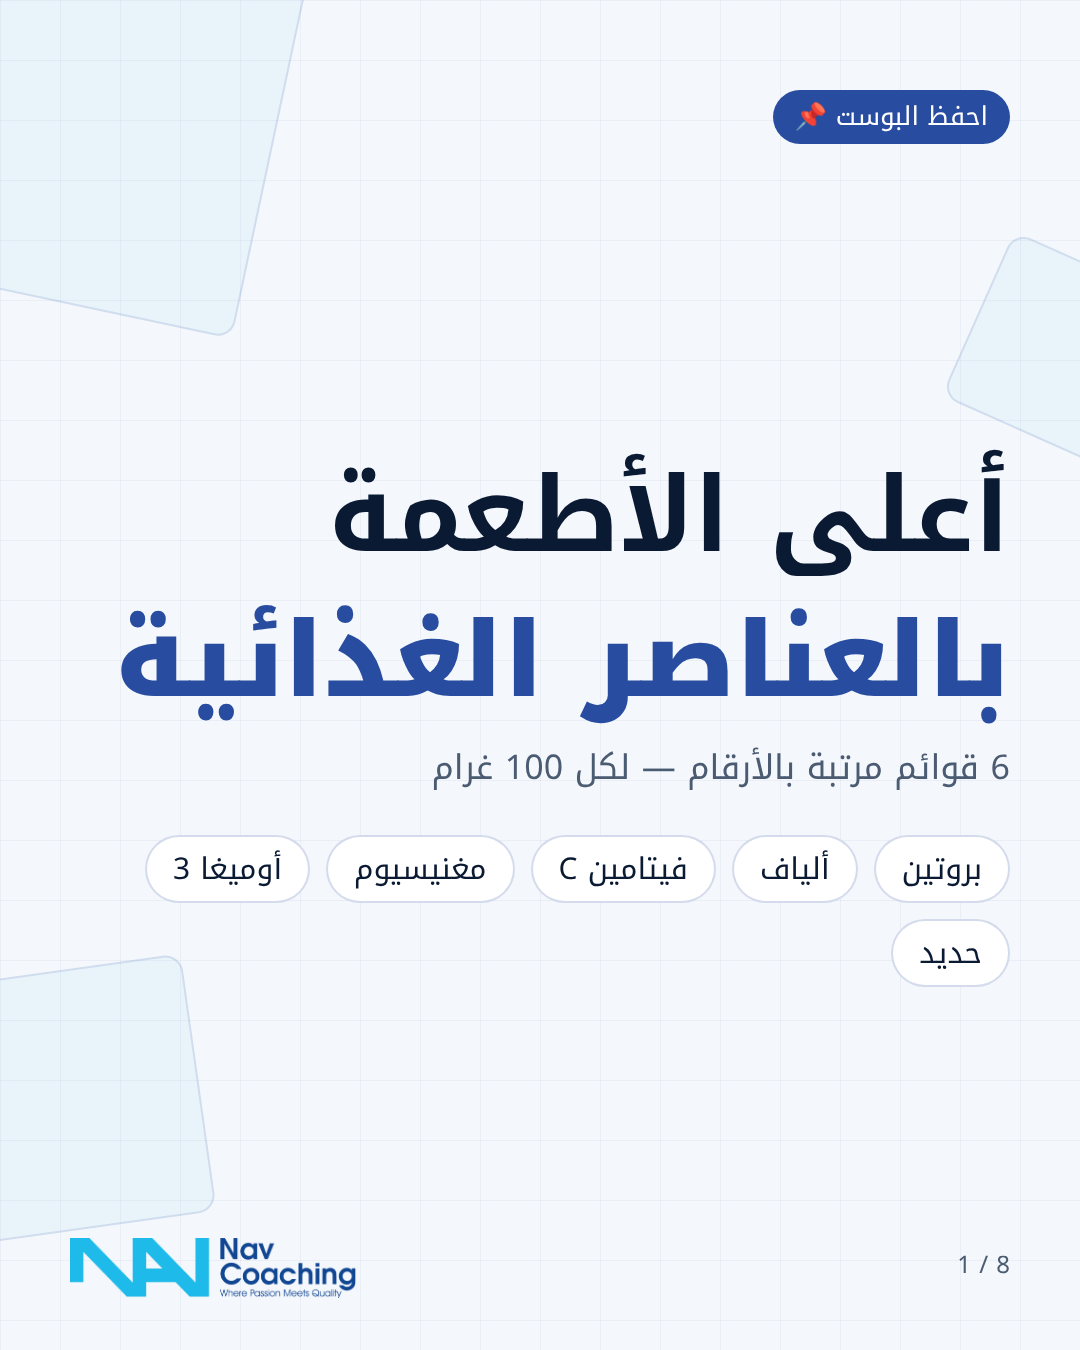
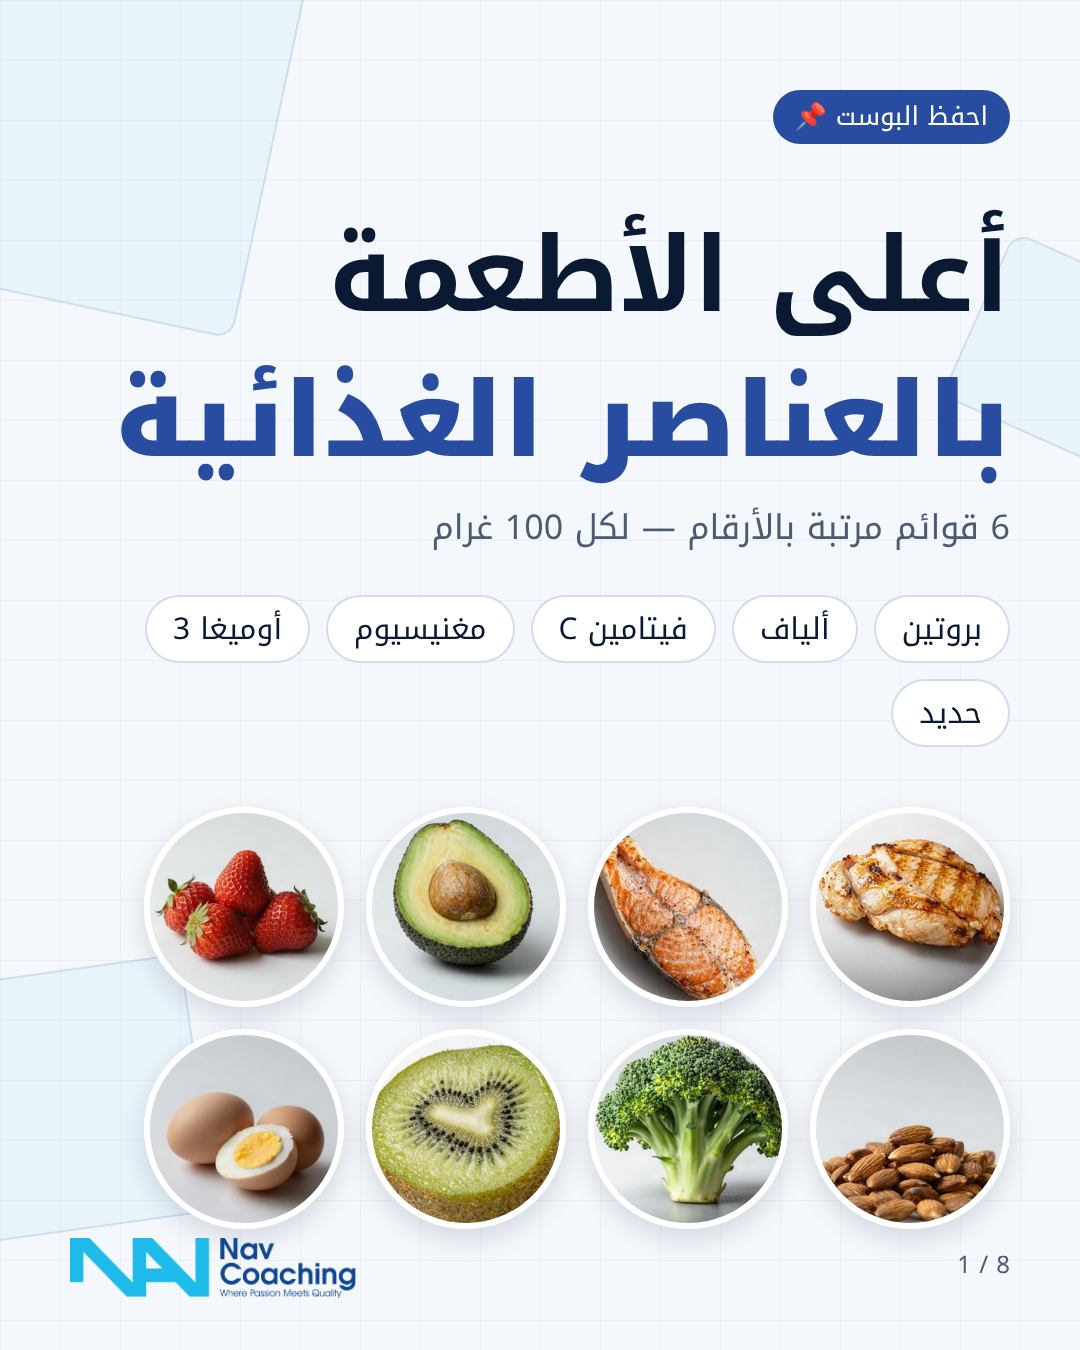
foods carousel: add generated food photos per row and cover collage
Claude-Session: https://claude.ai/code/session_014K8VAaJoHdbEmLTmDkRNee

Changed region(s): [[0.0917, 0.1556, 0.9472, 0.9333], [0.7028, 0.1556, 0.9472, 0.2489]]

diff --git a/instagram/foods/slides.html b/instagram/foods/slides.html
@@ -10,17 +10,20 @@ section.s{width:1080px;height:1350px;position:relative;overflow:hidden;backgroun
 h1{font-size:64px;line-height:1.45;margin:22px 0 6px;word-spacing:4px}
 h1 b{color:#284da0}
 .sub{font-size:26px;color:#4b5b72;line-height:1.6;margin-bottom:34px}
-.row{display:flex;align-items:center;gap:20px;height:96px}
-.lb{width:250px;font-size:32px;font-weight:600;line-height:1.5}
+.row{display:flex;align-items:center;gap:18px;height:100px}
+.ph{width:88px;height:88px;border-radius:50%;object-fit:cover;border:4px solid #fff;box-shadow:0 6px 16px #0b1a3322;flex:none}
+.lb{width:230px;font-size:32px;font-weight:600;line-height:1.5}
 .tr{flex:1;height:58px;background:#284da00f;border-radius:14px;position:relative;overflow:hidden}
 .br{position:absolute;right:0;top:0;bottom:0;border-radius:14px;background:linear-gradient(270deg,#284da0,#4cc5ed)}
 .row:first-child .br{background:linear-gradient(270deg,#0b1a33,#284da0)}
 .v{width:170px;font-size:34px;font-weight:800;text-align:left;white-space:nowrap}
 .v small{font-size:20px;color:#4b5b72;font-weight:500}
 .note{margin-top:26px;background:#fff;border-right:8px solid #4cc5ed;border-radius:14px;padding:18px 26px;font-size:26px;line-height:1.65;box-shadow:0 8px 24px #0b1a3310}
-.cover h1{font-size:104px;line-height:1.4;margin-top:300px}
+.cover h1{font-size:104px;line-height:1.4;margin-top:60px}
 .cover .sub{font-size:34px}
 .chips{display:flex;flex-wrap:wrap;gap:16px;margin-top:40px}.chips span{background:#fff;border:2px solid #284da033;border-radius:40px;padding:8px 26px;font-size:30px;line-height:1.6}
+.col{display:flex;flex-wrap:wrap;gap:22px;margin-top:60px}.col img{width:200px;height:200px;border-radius:50%;object-fit:cover;border:6px solid #fff;box-shadow:0 10px 26px #0b1a3322}
+.wrap:has(.note) .row{height:88px}.wrap:has(.note) .ph{width:78px;height:78px}
 </style></head><body><div id="root"></div><script>
 const D=[
 ['بروتين','أعلى الأطعمة <b>بالبروتين</b>','لكل 100 غرام • اللحوم والأسماك مطبوخة','غ',[['صدر دجاج',31],['تونة',30],['ديك رومي',29],['لحم بقر قليل الدهن',26],['سلمون',25],['روبيان',24],['توفو',17],['بيض',13]]],
@@ -29,11 +32,12 @@ const D=[
 ['مغنيسيوم','أعلى الأطعمة <b>بالمغنيسيوم</b>','لكل 100 غرام','ملغ',[['بذور الكتان',392],['بذور الشيا',335],['كاجو',290],['لوز',270],['شوكولاتة داكنة',230],['شوفان',138],['سبانخ',87],['فاصوليا سوداء',70]]],
 ['أوميغا 3','أعلى الأطعمة <b>بأوميغا 3</b>','لكل 100 غرام','غ',[['بذور الكتان',22.8],['بذور الشيا',17.8],['جوز',9.1],['ماكريل',2.7],['سلمون',2.3],['سردين',1.5]],'⚠ أوميغا 3 النباتي (ALA) يتحول منه 5 إلى 10% فقط إلى EPA/DHA — الأسماك أفضل مصدر مباشر.'],
 ['حديد','أعلى الأطعمة <b>بالحديد</b>','لكل 100 غرام','ملغ',[['شوكولاتة داكنة',11.9],['بلح البحر',6.7],['كاجو',6.7],['كبدة بقر',6.5],['توفو',5.4],['سبانخ',3.6],['عدس',3.3],['لحم بقر',2.6]],'⚠ حديد اللحوم يمتصه الجسم أفضل بـ 2 إلى 3 مرات من الحديد النباتي.']];
+const IM={"صدر دجاج": "chicken", "تونة": "tuna", "ديك رومي": "turkey", "لحم بقر قليل الدهن": "beef", "سلمون": "salmon", "روبيان": "shrimp", "توفو": "tofu", "بيض": "eggs", "بذور الشيا": "chia", "بذور الكتان": "flax", "فشار": "popcorn", "لوز": "almonds", "شوكولاتة داكنة": "choc", "شوفان": "oats", "عدس مطبوخ": "lentils", "عدس": "lentils", "أفوكادو": "avocado", "جوافة": "guava", "فلفل أصفر": "ypep", "فلفل أحمر": "rpep", "كيوي": "kiwi", "بروكلي": "broccoli", "بابايا": "papaya", "فراولة": "straw", "برتقال": "orange", "كاجو": "cashews", "سبانخ": "spinach", "فاصوليا سوداء": "bbeans", "جوز": "walnuts", "ماكريل": "mackerel", "سردين": "sardines", "بلح البحر": "mussels", "كبدة بقر": "liver", "لحم بقر": "beef"};
 const bg=()=>`<div class="grid"></div><div class="sq" style="width:420px;height:420px;top:-120px;left:-140px"></div><div class="sq" style="width:260px;height:260px;bottom:120px;left:-60px;transform:rotate(-8deg)"></div><div class="sq" style="width:180px;height:180px;top:260px;right:-70px;transform:rotate(24deg)"></div>`;
 const foot=i=>`<img class="logo" src="../../brand/logo-color-hd.png"><div class="n">${i} / 8</div>`;
-let h=`<section class="s cover">${bg()}<div class="wrap"><span class="eb">احفظ البوست 📌</span><h1>أعلى الأطعمة<br><b style="color:#284da0">بالعناصر الغذائية</b></h1><div class="sub">6 قوائم مرتبة بالأرقام — لكل 100 غرام</div><div class="chips">${D.map(d=>`<span>${d[0]}</span>`).join('')}</div></div>${foot(1)}</section>`;
+let h=`<section class="s cover">${bg()}<div class="wrap"><span class="eb">احفظ البوست 📌</span><h1>أعلى الأطعمة<br><b style="color:#284da0">بالعناصر الغذائية</b></h1><div class="sub">6 قوائم مرتبة بالأرقام — لكل 100 غرام</div><div class="chips">${D.map(d=>`<span>${d[0]}</span>`).join('')}</div><div class="col">${['chicken','salmon','avocado','straw','almonds','broccoli','kiwi','eggs'].map(k=>`<img src="img/${k}.jpg">`).join('')}</div></div>${foot(1)}</section>`;
 D.forEach((d,k)=>{const m=Math.max(...d[4].map(x=>x[1]));
-h+=`<section class="s">${bg()}<div class="wrap"><span class="eb">${d[0]}</span><h1>${d[1]}</h1><div class="sub">${d[2]}</div>${d[4].map(([n,v])=>`<div class="row"><div class="lb">${n}</div><div class="tr"><div class="br" style="width:${Math.max(4,v/m*100)}%"></div></div><div class="v">${v} <small>${d[3]}</small></div></div>`).join('')}${d[5]?`<div class="note">${d[5]}</div>`:''}</div>${foot(k+2)}</section>`});
+h+=`<section class="s">${bg()}<div class="wrap"><span class="eb">${d[0]}</span><h1>${d[1]}</h1><div class="sub">${d[2]}</div>${d[4].map(([n,v])=>`<div class="row"><img class="ph" src="img/${IM[n]}.jpg"><div class="lb">${n}</div><div class="tr"><div class="br" style="width:${Math.max(4,v/m*100)}%"></div></div><div class="v">${v} <small>${d[3]}</small></div></div>`).join('')}${d[5]?`<div class="note">${d[5]}</div>`:''}</div>${foot(k+2)}</section>`});
 h+=`<section class="s cover">${bg()}<div class="wrap"><h1 style="font-size:80px">الأكل الصح<br><b style="color:#284da0">يبدأ بمعلومة</b></h1><div class="sub">خطط تغذية وتمارين مصممة لك</div><div class="chips"><span>navcoaching.com</span></div></div>${foot(8)}</section>`;
 root.innerHTML=h;
 document.querySelectorAll('.lb').forEach(e=>{let f=32;while(e.scrollHeight>52&&f>22){e.style.fontSize=--f+'px'}});
